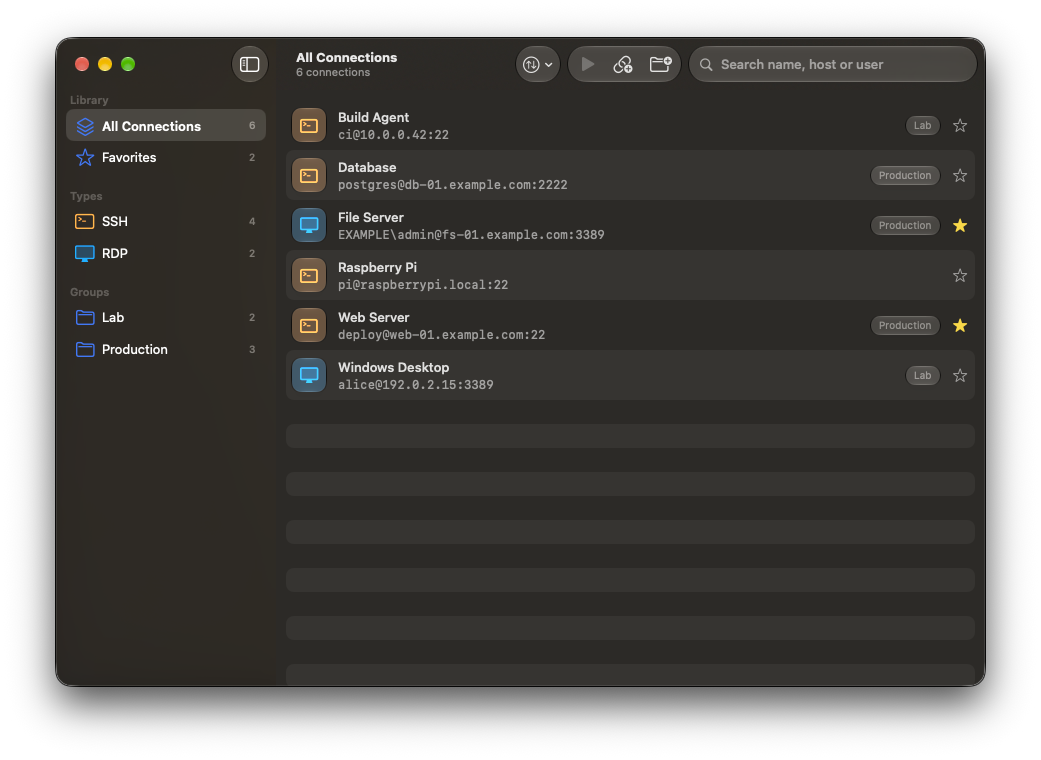
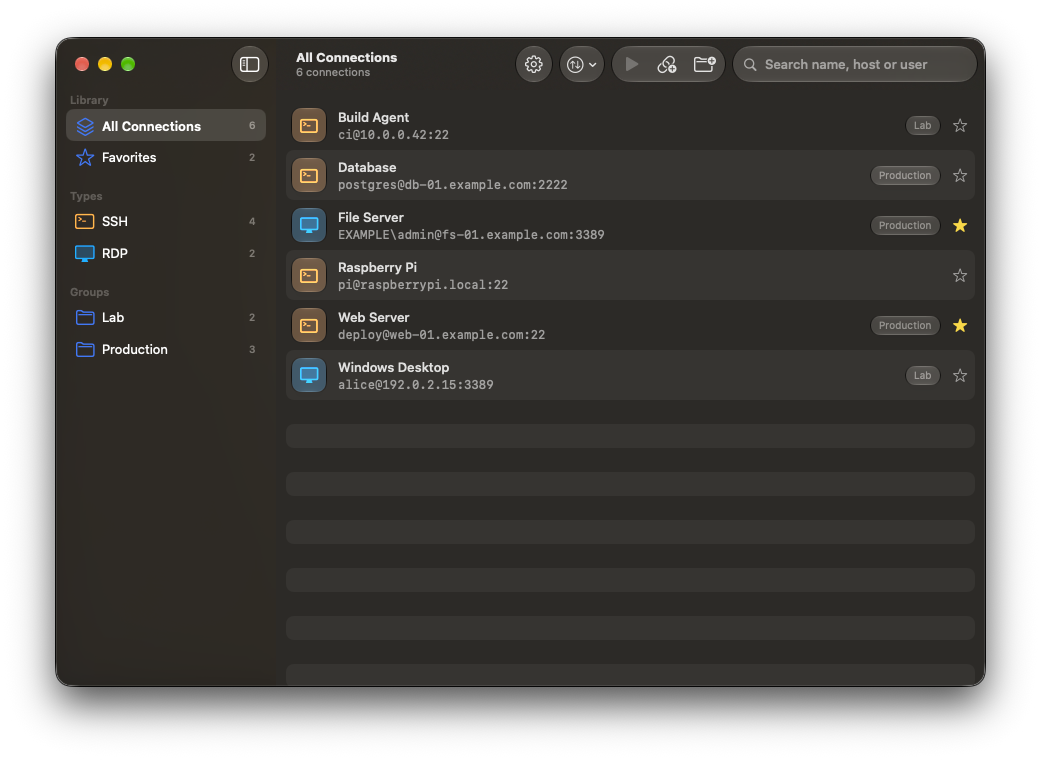
feat: add a Settings button to the toolbar before the Backup menu

Changed region(s): [[0.4918, 0.0605, 0.8915, 0.1211]]

diff --git a/CoreRemote/Views/ConnectionListView.swift b/CoreRemote/Views/ConnectionListView.swift
@@ -38,6 +38,12 @@ struct ConnectionListView: View {
             .searchable(text: $searchText, placement: .toolbar, prompt: Text("Search name, host or user"))
             .toolbar {
                 ToolbarItem(placement: .primaryAction) {
+                    SettingsLink {
+                        Label("Settings", systemImage: "gearshape")
+                    }
+                    .help("Settings (⌘,)")
+                }
+                ToolbarItem(placement: .primaryAction) {
                     Menu {
                         Button("Import…", systemImage: "square.and.arrow.down", action: onImport)
                         Button("Export…", systemImage: "square.and.arrow.up", action: onExport)
